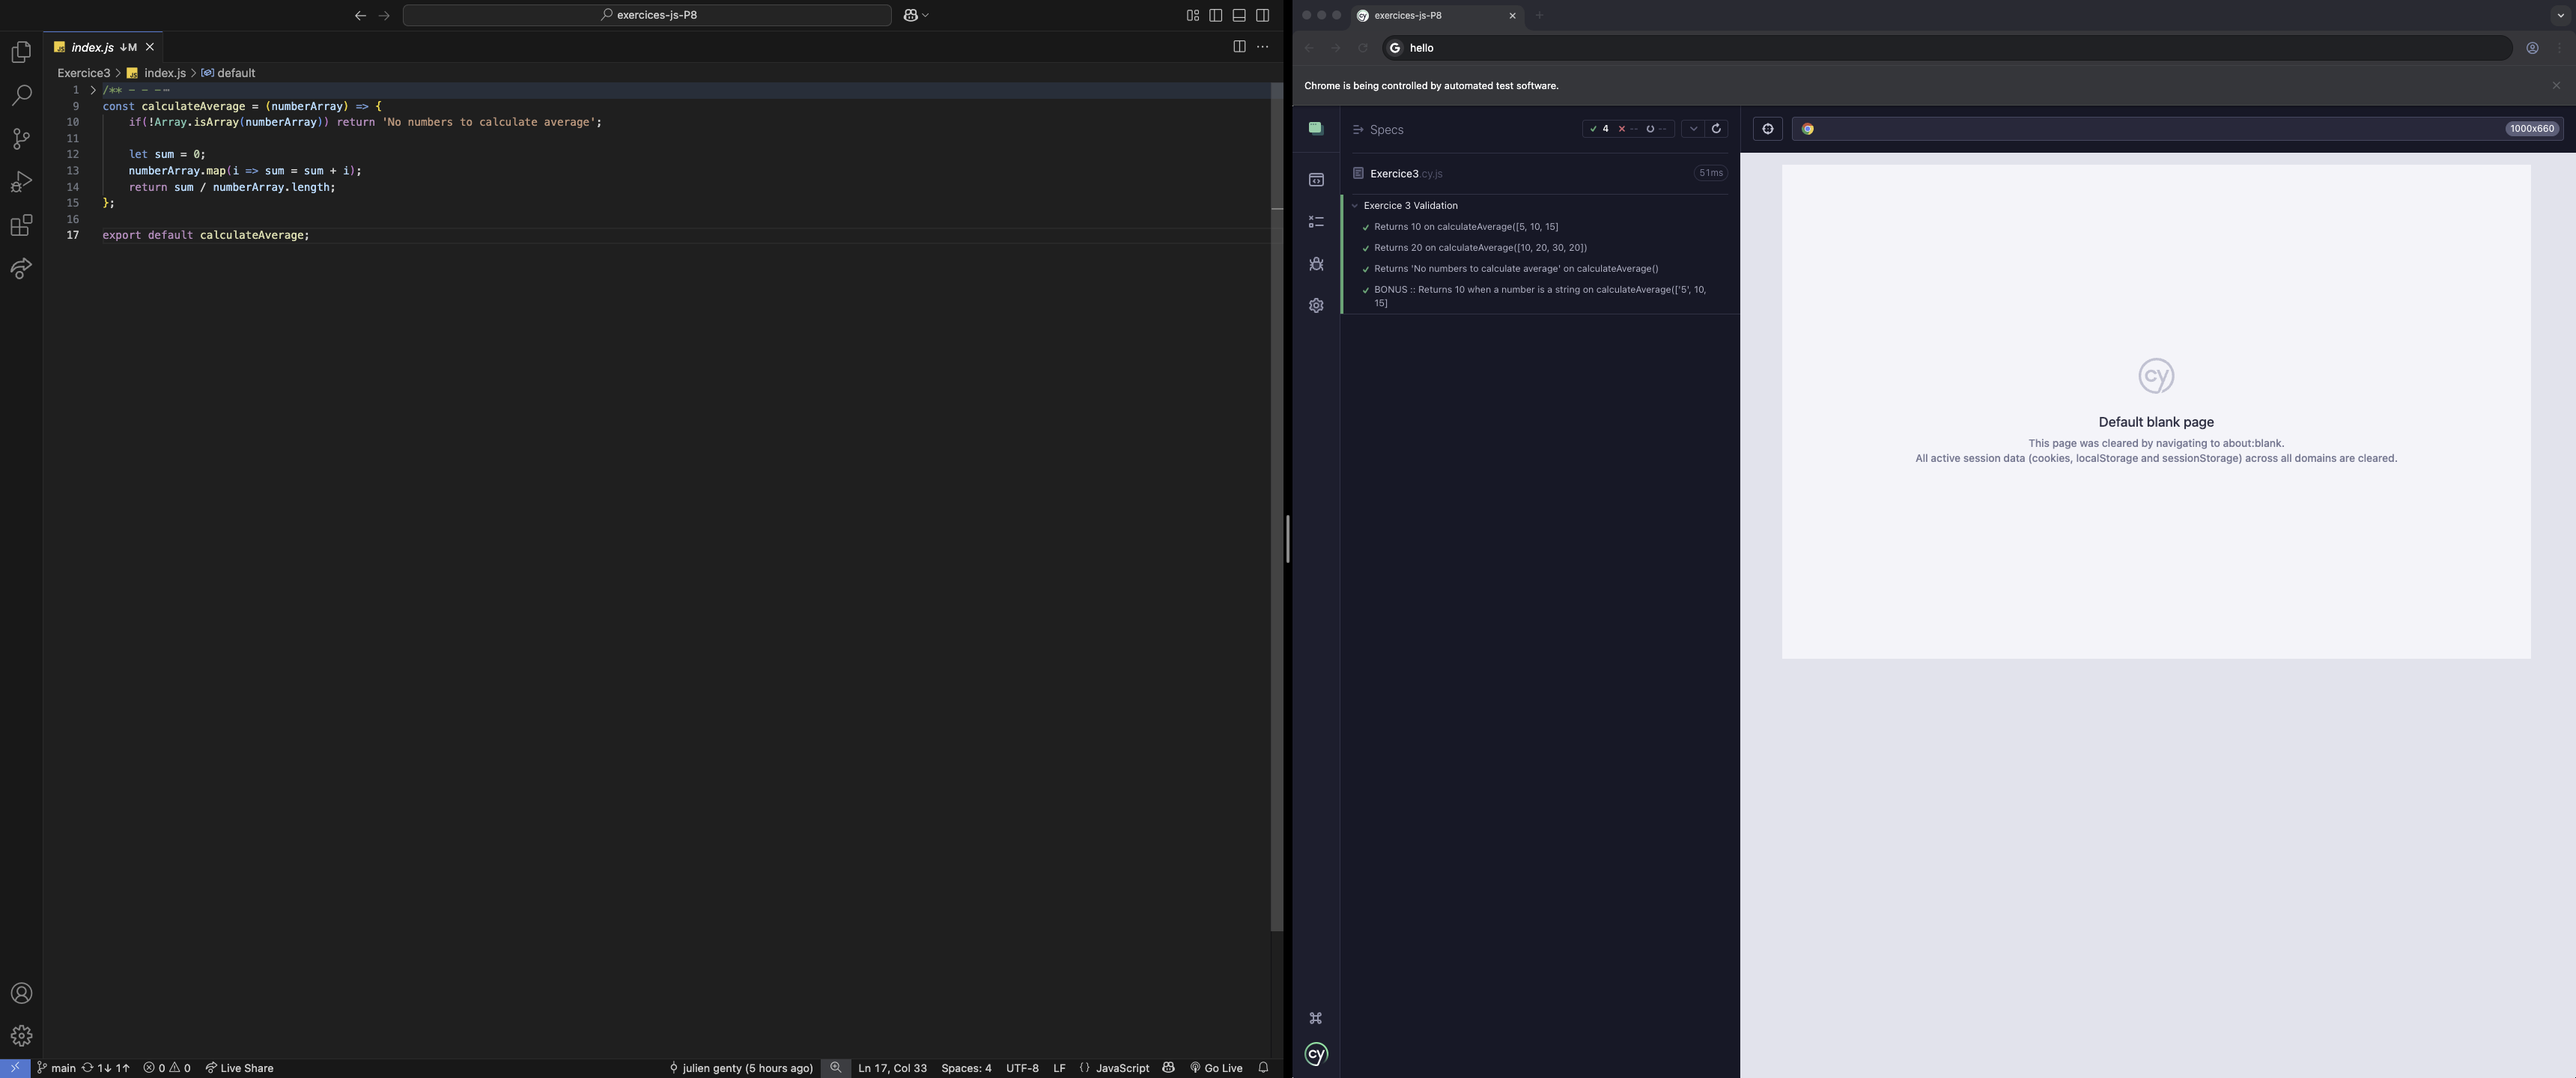
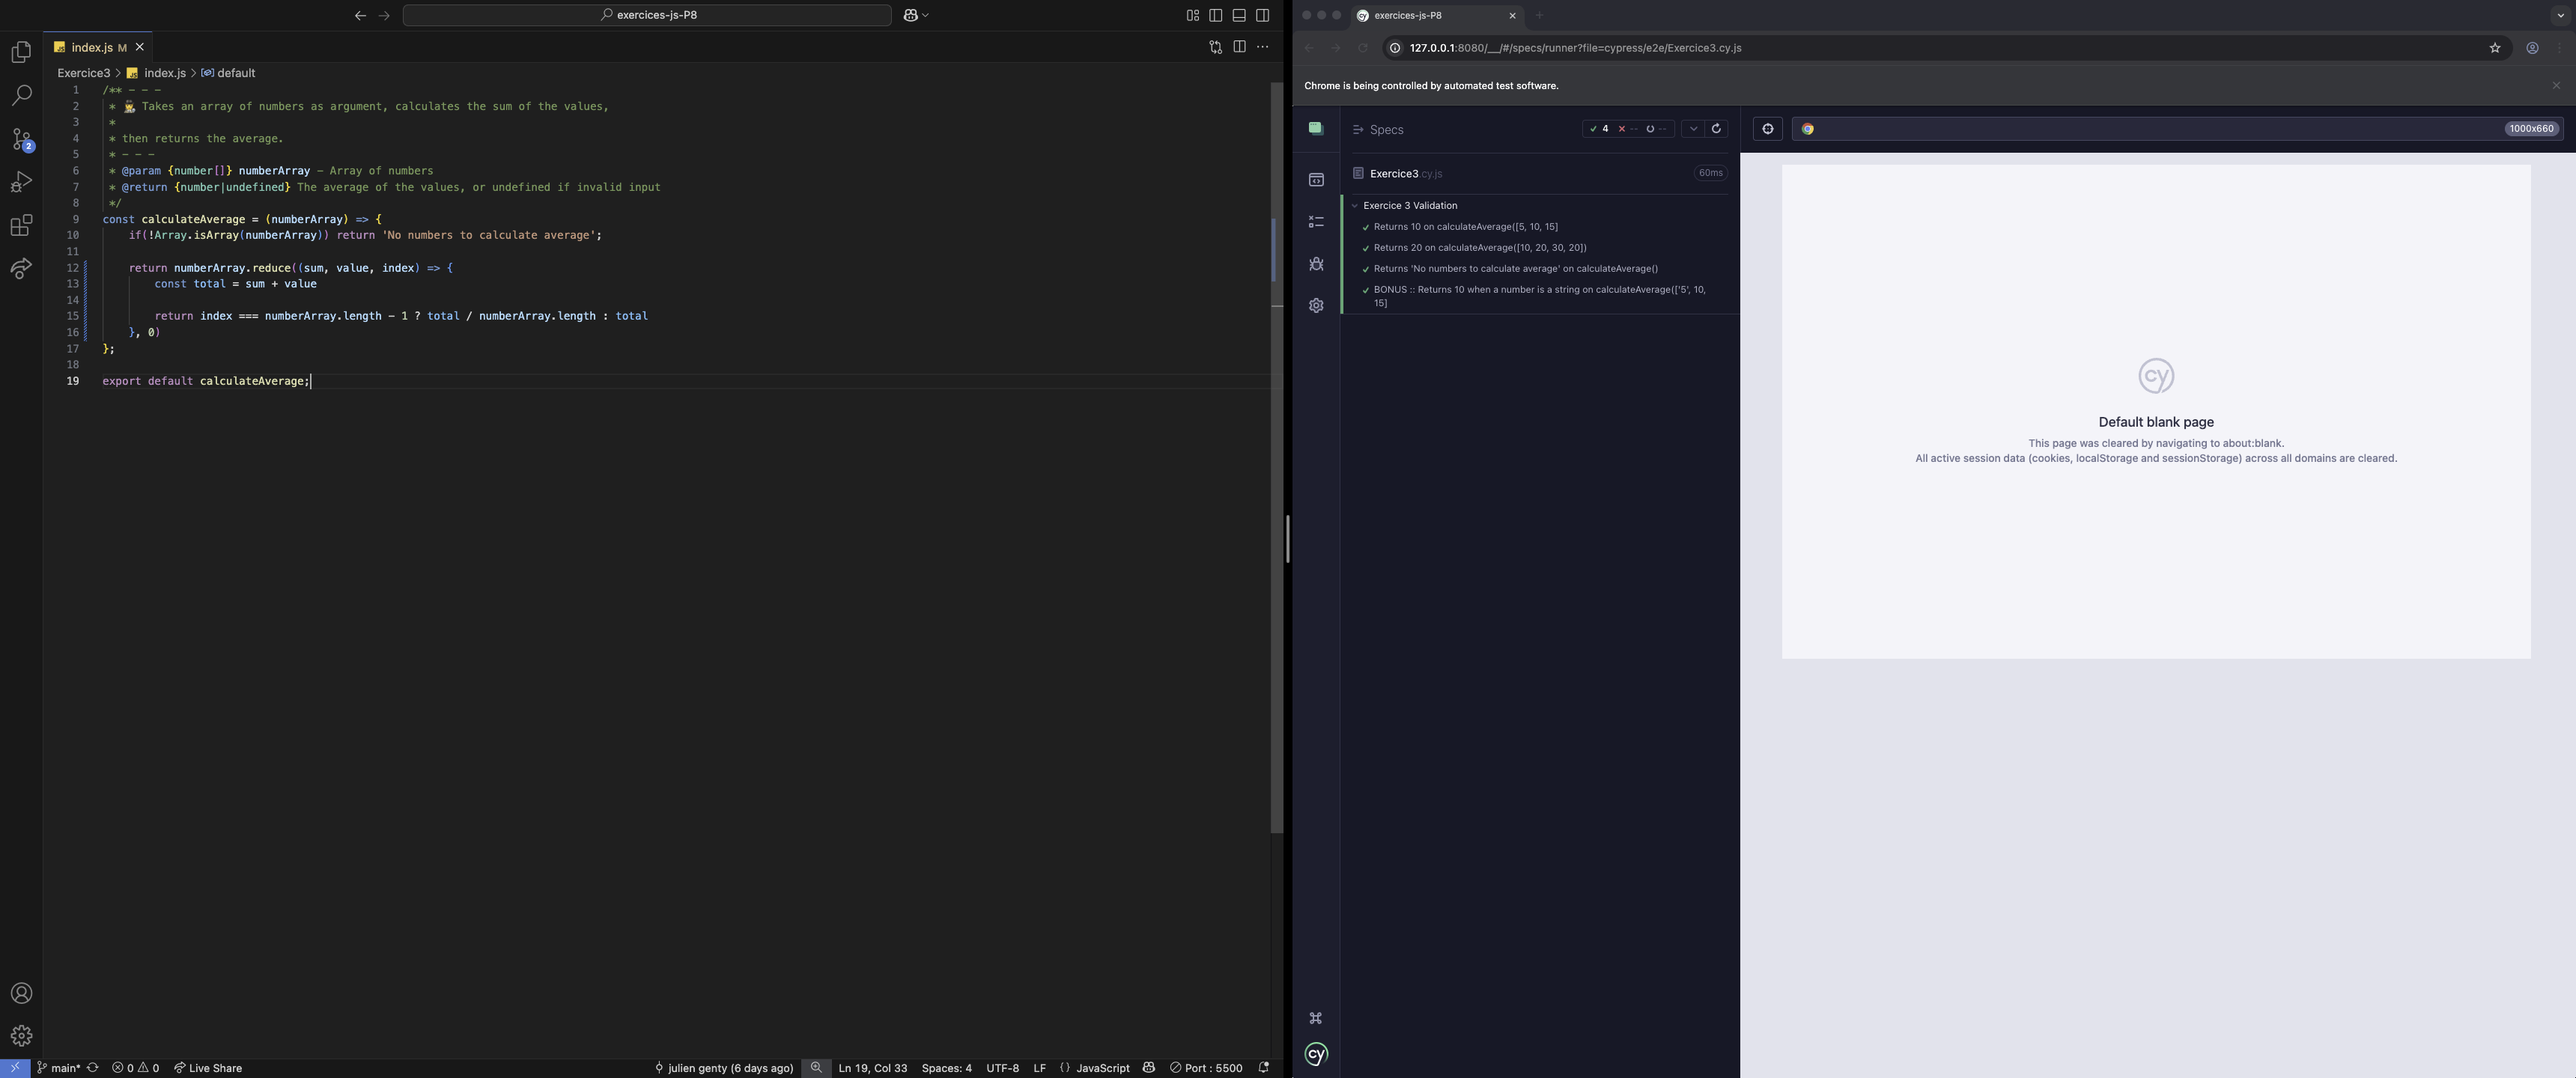
Correction

diff --git a/Exercice7/index.js b/Exercice7/index.js
@@ -7,13 +7,21 @@ function convertToBinary() {
     const decimalInput = document.getElementById('decimalInput').value;
     const binaryResult = document.getElementById('binaryResult');
 
-    const decimalNumber = Number(decimalInput);
-
-    if (isNaN(decimalNumber)) {
+    let number = Number(decimalInput);
+    
+    if (isNaN(number) || decimalInput.trim() === '') {
         binaryResult.textContent = '';
         return;
     };
+    
+    let binaries = [];
 
-    const binary = decimalNumber.toString(2);
-    binaryResult.textContent = binary;
+    while (number > 0) {
+        const binary = number % 2;      
+        binaries.push(binary);         
+        number = Math.floor(number / 2);   
+    }
+
+    if (binaries.length === 0) binaryResult.textContent = '0';
+    else binaryResult.textContent = binaries.reverse().join('');
 };

diff --git a/Exercice3/index.js b/Exercice3/index.js
@@ -9,9 +9,11 @@
 const calculateAverage = (numberArray) => {
     if(!Array.isArray(numberArray)) return 'No numbers to calculate average';
 
-    let sum = 0;
-    numberArray.map(i => sum = sum + i);
-    return sum / numberArray.length;
+    return numberArray.reduce((sum, value, index) => {
+        const total = sum + value
+
+        return index === numberArray.length - 1 ? total / numberArray.length : total
+    }, 0)
 };
 
 export default calculateAverage;
